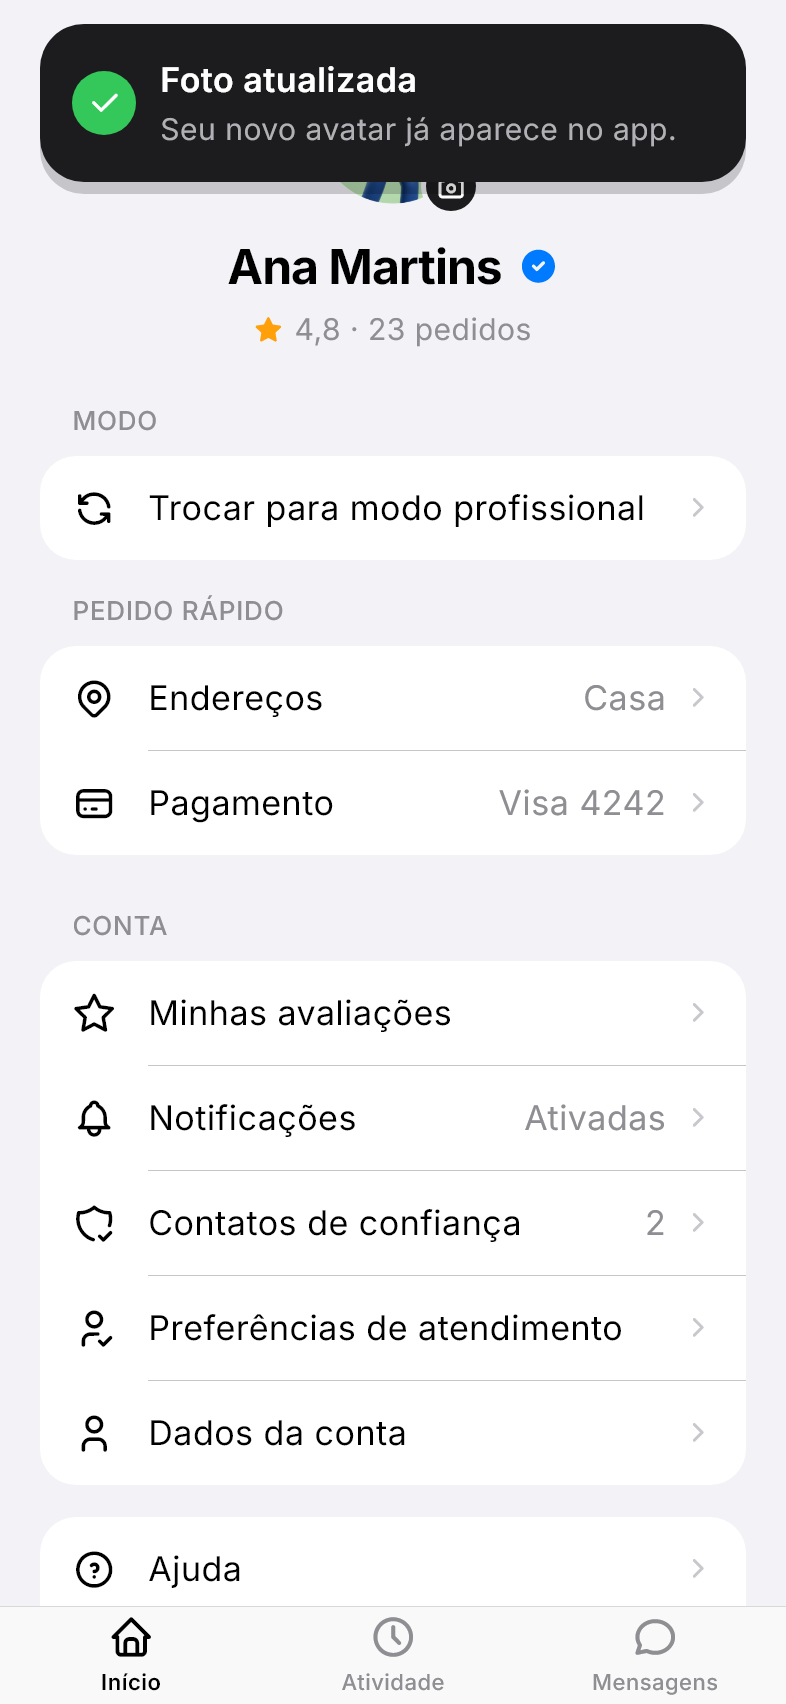
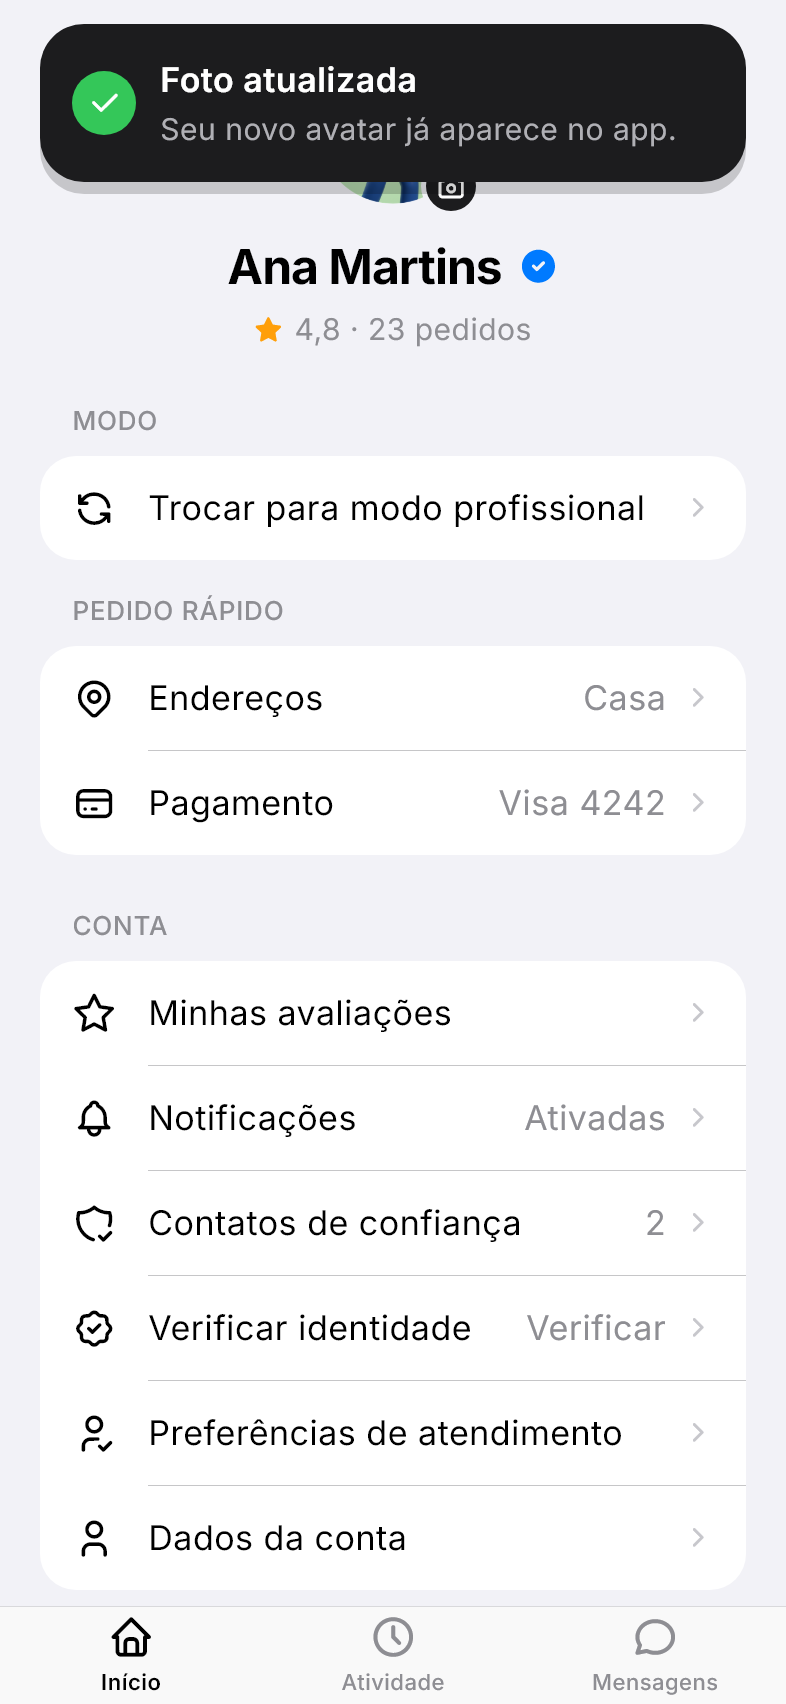
Verificar identidade no Perfil do cliente

diff --git a/app/lib/features/cliente/verificar_identidade_page.dart b/app/lib/features/cliente/verificar_identidade_page.dart
@@ -13,21 +13,27 @@ import '../profissional/cadastro/verificacao_page.dart';
 /// Cliente: verificar a identidade para usar a preferência por
 /// profissionais mulheres (documento + selfie ao vivo).
 class VerificarIdentidadePage extends StatelessWidget {
-  const VerificarIdentidadePage({super.key});
+  const VerificarIdentidadePage({super.key, this.paraPreferencia = true});
+
+  /// Veio do "Preferir profissionais mulheres" (senão, do Perfil).
+  final bool paraPreferencia;
 
   @override
   Widget build(BuildContext context) {
     return CadastroScaffold(
       titulo: 'Verifique sua identidade',
-      subtitulo:
-          'Para usar a preferência por mulheres, precisamos saber quem você '
-          'é. Leva uns 2 minutos.',
+      subtitulo: paraPreferencia
+          ? 'Para usar a preferência por mulheres, precisamos saber quem '
+                'você é. Leva uns 2 minutos.'
+          : 'Alguns profissionais só atendem clientes verificados. '
+                'Leva uns 2 minutos.',
       botao: 'Começar',
       onBotao: () => Navigator.of(context).pushReplacement(
         MaterialPageRoute(
-          builder: (_) => const CameraVerificacaoPage(
+          builder: (_) => CameraVerificacaoPage(
             etapa: EtapaFoto.frente,
             cliente: true,
+            ligarPreferencia: paraPreferencia,
           ),
         ),
       ),
@@ -102,7 +108,9 @@ class _Item extends StatelessWidget {
 
 /// Fim da verificação do cliente: a preferência já fica ligada.
 class IdentidadeVerificadaPage extends StatelessWidget {
-  const IdentidadeVerificadaPage({super.key});
+  const IdentidadeVerificadaPage({super.key, this.paraPreferencia = true});
+
+  final bool paraPreferencia;
 
   @override
   Widget build(BuildContext context) {
@@ -115,9 +123,11 @@ class IdentidadeVerificadaPage extends StatelessWidget {
         color: TatuColors.online,
       ),
       titulo: 'Identidade verificada',
-      texto:
-          'A preferência por profissionais mulheres está ativa. Você pode '
-          'desligar quando quiser, no Perfil ou na Home.',
+      texto: paraPreferencia
+          ? 'A preferência por profissionais mulheres está ativa. Você pode '
+                'desligar quando quiser, no Perfil ou na Home.'
+          : 'Pronto! Agora você também pode chamar profissionais que só '
+                'atendem clientes verificados.',
       principal: 'Concluir',
       onPrincipal: () => Navigator.of(context).maybePop(),
     );

diff --git a/docs/fluxo/index.html b/docs/fluxo/index.html
@@ -273,7 +273,7 @@ const TELAS_RAW = [
   ['c84','C84','Concluídos · vazio','contaC','app','docs/fluxo/app/atividade-concluidos-vazio.png'],
   ['c89','C89','Atividade · ninguém aceitou ainda','contaC','app','docs/fluxo/app/atividade-ninguem-aceitou.png',["A busca continua em segundo plano e avisa quando alguém aceitar","No app, “Tentar de novo” ainda mostra “em breve”"]],
   ['c27p','C27p','Preferências de atendimento (cliente)','contaC','app','docs/fluxo/app/cliente-preferencias.png',["“Preferir profissionais mulheres” só liga para quem se identifica como mulher","“Como você se identifica”: folha com Mulher, Homem, Outro, Prefiro não dizer","Na demo, a fila de quem aceita fica só com profissionais mulheres"]],
-  ['c27v','C27v','Verifique sua identidade','contaC','app','docs/fluxo/app/cliente-verificar.png',["Aparece ao ligar “Preferir profissionais mulheres” pela 1ª vez"]],
+  ['c27v','C27v','Verifique sua identidade','contaC','app','docs/fluxo/app/cliente-verificar.png',["Abre ao ligar “Preferir profissionais mulheres” pela 1ª vez ou por “Verificar identidade” no Perfil","Pelo Perfil, o texto fala dos profissionais que só atendem verificados e a preferência não liga sozinha"]],
   ['c27d','C27d','Câmera · frente do documento','contaC','app','docs/fluxo/app/cliente-camera-documento.png',["Câmera ao vivo (a de trás); depois “Ficou boa?”"]],
   ['c27s','C27s','Câmera · selfie','contaC','app','docs/fluxo/app/cliente-camera-selfie.png',["Câmera da frente; protótipo: a foto é tirada pelo botão"]],
   ['c27ok','C27ok','Identidade verificada','contaC','app','docs/fluxo/app/cliente-identidade-verificada.png',["Protótipo: aprova na hora e já liga a preferência"]],
@@ -810,6 +810,7 @@ const LIGACOES = [
   ['c27','p31c','Contatos de confiança','t'],
   ['c27','c27p','Preferências de atendimento','t'],
   ['c27p','c27v','liga “Preferir mulheres” (1ª vez)','t'],
+  ['c27','c27v','Verificar identidade','t'],
   ['c27v','c27d','Começar','t'],
   ['c27d','c27s','Usar esta foto','t'],
   ['c27s','c27ok','Usar esta foto','t'],

diff --git a/app/test/verificar_identidade_test.dart b/app/test/verificar_identidade_test.dart
@@ -6,6 +6,7 @@ import 'package:flutter_test/flutter_test.dart';
 import 'package:tatu/core/theme/tatu_theme.dart';
 import 'package:tatu/data/profissional.dart';
 import 'package:tatu/data/seguranca.dart';
+import 'package:tatu/features/cliente/perfil_page.dart';
 import 'package:tatu/features/cliente/preferencias_cliente_page.dart';
 import 'package:tatu/features/profissional/cadastro/verificacao_page.dart';
 
@@ -61,5 +62,41 @@ void main() {
     await t.pumpAndSettle();
     expect(seguranca.preferirMulheres, isTrue);
     expect(find.text('Verifique sua identidade'), findsNothing);
+  });
+
+  testWidgets('Verificar identidade pelo Perfil não liga a preferência', (
+    t,
+  ) async {
+    t.view.physicalSize = const Size(1179, 2556); // 393×852
+    t.view.devicePixelRatio = 3;
+    addTearDown(t.view.reset);
+    final bytes = File('assets/avatares/avatar-2.png').readAsBytesSync();
+    profissional.tirarFoto = ({required bool frontal}) async => bytes;
+    await t.pumpWidget(
+      MaterialApp(theme: tatuTheme(), home: const PerfilClientePage()),
+    );
+    await t.scrollUntilVisible(find.text('Verificar identidade'), 200);
+    await t.ensureVisible(find.text('Verificar identidade'));
+    await t.pumpAndSettle();
+    await t.tap(find.text('Verificar identidade'));
+    await t.pumpAndSettle();
+    expect(
+      find.textContaining('só atendem clientes verificados'),
+      findsOneWidget,
+    );
+    await t.tap(find.text('Começar'));
+    await t.pumpAndSettle();
+    for (var i = 0; i < 2; i++) {
+      await t.tap(find.bySemanticsLabel('Tirar foto'));
+      await t.pumpAndSettle();
+      await t.tap(find.text('Usar esta foto'));
+      await t.pumpAndSettle();
+    }
+    expect(find.text('Identidade verificada'), findsOneWidget);
+    await t.tap(find.text('Concluir'));
+    await t.pumpAndSettle();
+    expect(seguranca.identidadeVerificada, isTrue);
+    expect(seguranca.preferirMulheres, isFalse);
+    expect(find.text('Verificada'), findsOneWidget);
   });
 }

diff --git a/app/lib/features/cliente/perfil_page.dart b/app/lib/features/cliente/perfil_page.dart
@@ -1,8 +1,10 @@
 import 'package:flutter/material.dart';
 
 import '../../data/seguranca.dart';
+import '../../shared/widgets/aviso_topo.dart';
 import '../entrada/seguranca.dart';
 import 'preferencias_cliente_page.dart';
+import 'verificar_identidade_page.dart';
 import 'package:flutter_tabler_icons/flutter_tabler_icons.dart';
 
 import '../profissional/trocar_modo.dart';
@@ -191,6 +193,26 @@ class PerfilClientePage extends StatelessWidget {
                           builder: (_) => const ContatosConfiancaPage(),
                         ),
                       ),
+                    ),
+                    ItemLista(
+                      icone: TablerIcons.rosette_discount_check,
+                      texto: 'Verificar identidade',
+                      valor: seguranca.identidadeVerificada
+                          ? 'Verificada'
+                          : 'Verificar',
+                      onTap: () => seguranca.identidadeVerificada
+                          ? mostrarAvisoTopo(
+                              context,
+                              titulo: 'Identidade verificada',
+                              texto: 'Você já fez a verificação.',
+                            )
+                          : Navigator.of(context).push(
+                              MaterialPageRoute(
+                                builder: (_) => const VerificarIdentidadePage(
+                                  paraPreferencia: false,
+                                ),
+                              ),
+                            ),
                     ),
                     ItemLista(
                       icone: TablerIcons.user_check,

diff --git a/app/lib/features/profissional/cadastro/verificacao_page.dart b/app/lib/features/profissional/cadastro/verificacao_page.dart
@@ -76,11 +76,15 @@ class CameraVerificacaoPage extends StatefulWidget {
     required this.etapa,
     this.refazendo = false,
     this.cliente = false,
+    this.ligarPreferencia = true,
   });
 
   final EtapaFoto etapa;
   final bool refazendo;
   final bool cliente;
+
+  /// Cliente: ao terminar, liga "Preferir profissionais mulheres".
+  final bool ligarPreferencia;
 
   /// Desligado nos testes e nas capturas (sem câmera de verdade).
   static bool cameraAoVivo = true;
@@ -175,9 +179,15 @@ class _CameraVerificacaoPageState extends State<CameraVerificacaoPage> {
     final foto = _foto!;
     if (widget.cliente) {
       if (_selfie) {
-        seguranca.verificarIdentidade();
+        seguranca.verificarIdentidade(
+          ligarPreferencia: widget.ligarPreferencia,
+        );
         Navigator.of(context).pushReplacement(
-          MaterialPageRoute(builder: (_) => const IdentidadeVerificadaPage()),
+          MaterialPageRoute(
+            builder: (_) => IdentidadeVerificadaPage(
+              paraPreferencia: widget.ligarPreferencia,
+            ),
+          ),
         );
         return;
       }

diff --git a/app/lib/data/seguranca.dart b/app/lib/data/seguranca.dart
@@ -161,10 +161,14 @@ class SegurancaRepo extends ChangeNotifier {
   /// Cliente mandou documento e selfie (protótipo: aprova na hora).
   bool identidadeVerificada = false;
 
-  void verificarIdentidade() {
+  /// Com [ligarPreferencia], veio do "Preferir profissionais mulheres"
+  /// e já liga a preferência.
+  void verificarIdentidade({bool ligarPreferencia = false}) {
     identidadeVerificada = true;
-    identidade = Identidade.mulher;
-    preferirMulheres = true;
+    if (ligarPreferencia) {
+      identidade = Identidade.mulher;
+      preferirMulheres = true;
+    }
     notifyListeners();
   }
 

diff --git a/app/test/ajuda_test.dart b/app/test/ajuda_test.dart
@@ -10,6 +10,9 @@ Future<void> _abrirAjuda(WidgetTester t) async {
   await t.pumpWidget(
     MaterialApp(theme: tatuTheme(), home: const PerfilClientePage()),
   );
+  await t.scrollUntilVisible(find.text('Ajuda'), 200);
+  await t.ensureVisible(find.text('Ajuda'));
+  await t.pumpAndSettle();
   await t.tap(find.text('Ajuda'));
   await t.pumpAndSettle();
 }

diff --git a/PROGRESSO.md b/PROGRESSO.md
@@ -86,6 +86,7 @@ Próxima tela: Gustavo envia a referência. Construir **uma tela por vez, junto 
 - [x] Preferências de atendimento do cliente (`cliente/preferencias_cliente_page.dart`): preferir profissionais mulheres depois de informar “Como você se identifica” (Mulher); selo rosa `SeloPreferencia` no Procurando e na Home online do profissional; fila da demo só com mulheres. Corrigido: o alerta silencioso agora é separado por modo e acaba ao cancelar ou aceitar outro pedido
 - [x] Dica “Botão de segurança” embaixo do escudo por 3 s na 1ª vez de cada modo (`BotaoEscudo`)
 - [x] Verificação de identidade do cliente (`cliente/verificar_identidade_page.dart` + `CameraVerificacaoPage(cliente: true)` com cantos verdes e oval verde): pedida ao ligar “Preferir profissionais mulheres”; documento → selfie → Identidade verificada (liga a preferência). `CaixaAviso` (caixa amarela) virou componente
+- [x] “Verificar identidade” no Perfil do cliente (Verificar / Verificada), sem ligar a preferência
 - Falta do profissional: cobrar o cliente, avaliar o cliente
 - [ ] P6–P7 Home (primeira vez, offline, online)
 - [ ] P8 Novo chamado
